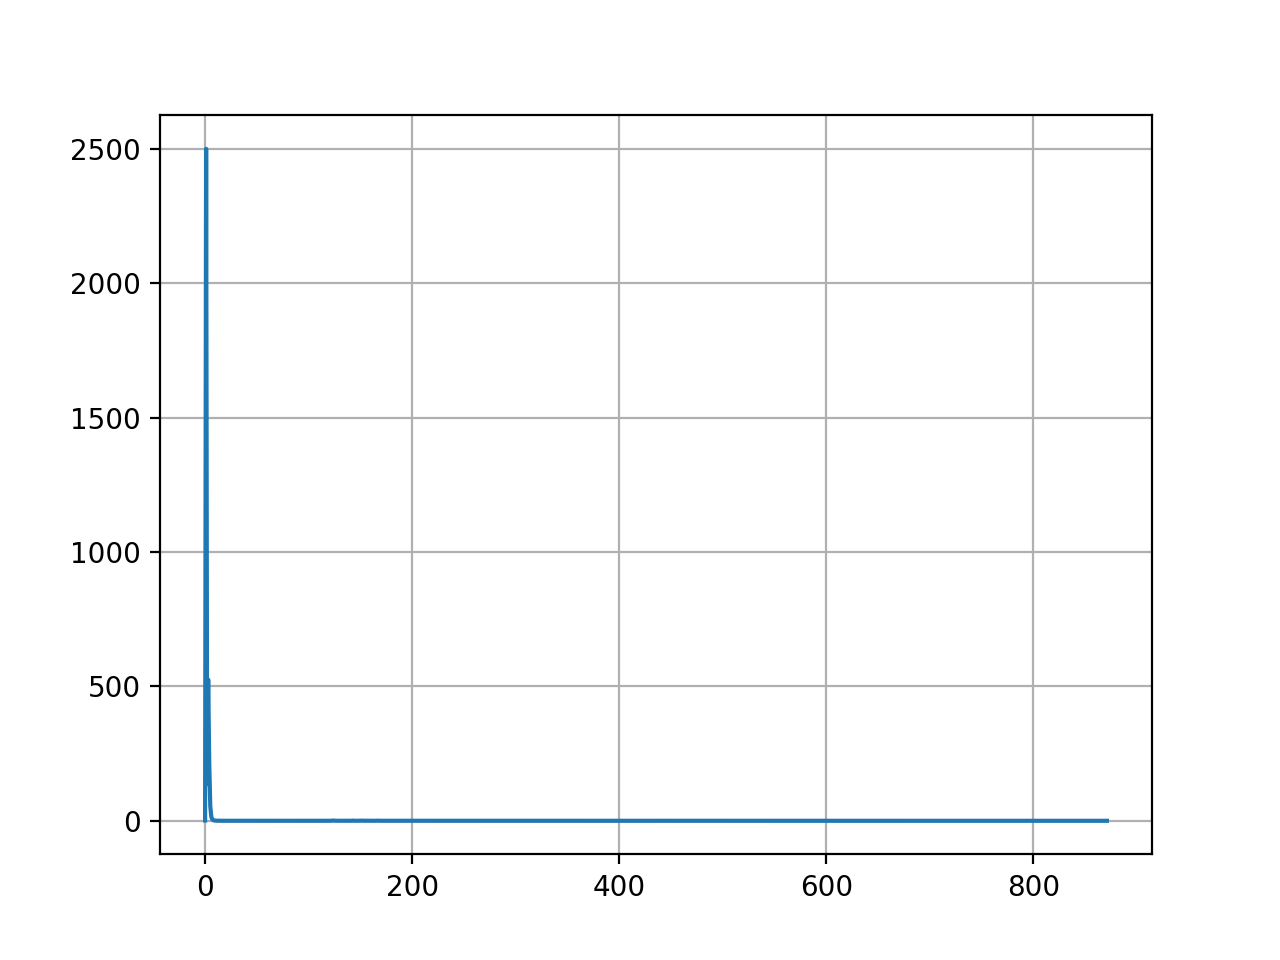
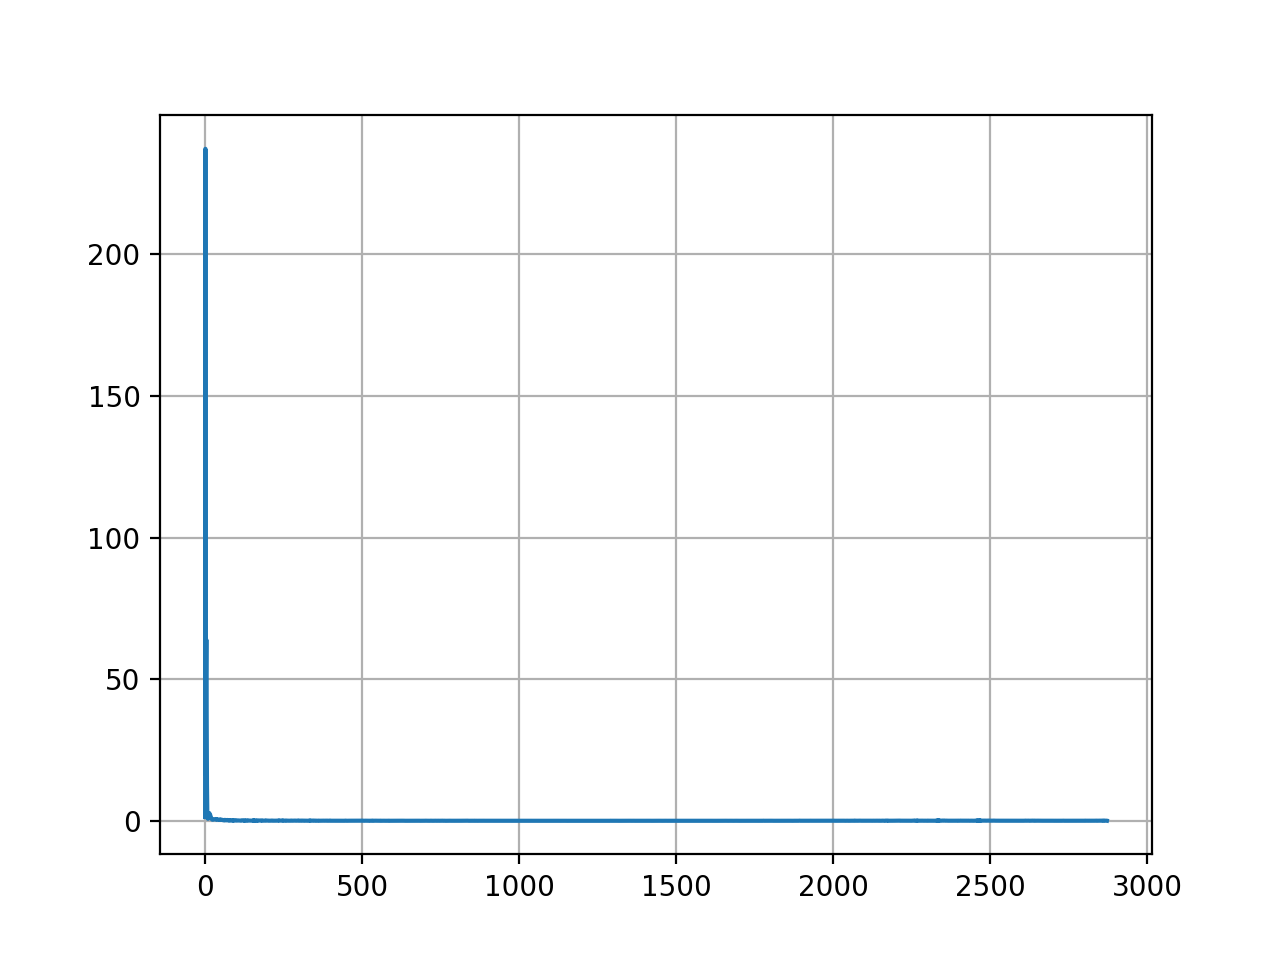
newPIC

diff --git a/newSimulate.py b/newSimulate.py
@@ -54,7 +54,7 @@ def plotMetric(poolEE,poolBestEE):
     fig.canvas.draw()
     plt.pause(0.001)
 
-def plotEEFamily(poolEE,poolThroughput,poolPsys):
+def plotEEFamily(poolEE,poolThroughput,poolPsys,plotName):
     plt.cla()
     plt.plot(poolEE,label='poolEE')
     plt.plot(poolThroughput,label='poolThroughput',alpha=0.7)
@@ -67,9 +67,9 @@ def plotEEFamily(poolEE,poolThroughput,poolPsys):
     plt.grid()
     plt.legend()
     fig = plt.gcf()
-    fig.savefig('data/'+ 'EE_Family' +'.png', format='png',dpi=200)
+    fig.savefig('data/'+ 'EE_Family_' + plotName +'.png', format='png',dpi=200)
 
-def plotPsysFamily(poolPsys,poolmissCounterAP,poolmissCounterCPU):
+def plotPsysFamily(poolPsys,poolmissCounterAP,poolmissCounterCPU,plotName):
     plt.cla()
     plt.plot(poolPsys,'b-',label='poolPsys')
     plt.plot(poolmissCounterAP,'r-',label='poolmissCounterAP',alpha=0.7)
@@ -77,7 +77,7 @@ def plotPsysFamily(poolPsys,poolmissCounterAP,poolmissCounterCPU):
     plt.grid()
     plt.legend()
     fig = plt.gcf()
-    fig.savefig('data/'+ 'Psys_Family' +'.png', format='png',dpi=200)
+    fig.savefig('data/'+ 'Psys_Family_'+ plotName +'.png', format='png',dpi=200)
 
 def plotlist(listA,listName): # for debugging.
     plt.cla()
@@ -172,13 +172,15 @@ def trainModel(env,actMode,changeReq,changeChannel,loadActor,modelName):
             poolmissCounterAP.append(env.missCounterAP)
             poolmissCounterCPU.append(env.missCounterCPU)
 
+            
             Best_snrCL_popCA_EE, snrCL_policy_UE, popCA_policy_BS = env.getBestEE_snrCL_popCA(cacheMode='pref',isSave=False,isPlot=False,isEPS=False)
             poolSP_EE.append(Best_snrCL_popCA_EE)
-            poolSP_Throughput.append(env.Throughput)
+            poolSP_Throughput.append(sum(env.Throughput))
             poolSP_Psys.append(env.P_sys/1000)
             poolSP_missCounterAP.append(env.missCounterAP)
             poolSP_missCounterCPU.append(env.missCounterCPU)
-
+            
+            
             HR = info["HR"]
             poolHR.append(HR)
 
@@ -215,7 +217,7 @@ def trainModel(env,actMode,changeReq,changeChannel,loadActor,modelName):
 
                 if (poolVarLossCritic[-1] < 10) and (poolVarEE[-1] < 10) and changeReq:
                     env.resetReq()
-                    print(env.Req)
+                    print('**Change Request: ',env.Req)
                     countChangeReq+=1
                     noiseSigma = 1 # reset explore
 
@@ -227,10 +229,12 @@ def trainModel(env,actMode,changeReq,changeChannel,loadActor,modelName):
                 countChangeChannel+=1
 
             if (iteraion % 1000) == 0:#Mectric Snapshot
-                #print(finalVar)
+                plotEEFamily(poolEE,poolThroughput,poolPsys,'RL')
+                plotEEFamily(poolSP_EE,poolSP_Throughput,poolSP_Psys,'SP')
+                plotPsysFamily(poolPsys,poolmissCounterAP,poolmissCounterCPU,'RL')
+                plotPsysFamily(poolSP_Psys,poolSP_missCounterAP,poolSP_missCounterCPU,'SP')
+
                 plotlist(poolLossCritic,'LossCritic')
-                plotEEFamily(poolEE,poolThroughput,poolPsys)
-                plotPsysFamily(poolPsys,poolmissCounterAP,poolmissCounterCPU)
                 plotlist(poolHR,'poolHR')
                 Best_snrCL_popCA_EE, snrCL_policy_UE, popCA_policy_BS = env.getBestEE_snrCL_popCA(cacheMode='pref',isSave=False,isPlot=False,isEPS=False)
                 if poolEE[-1]>Best_snrCL_popCA_EE:
@@ -361,7 +365,7 @@ if __name__ == '__main__':
     # new ENV
     #env = BS(nBS=100,nUE=10,nMaxLink=2,nFile=5,nMaxCache=2,loadENV = True)
     env = BS(nBS=40,nUE=10,nMaxLink=2,nFile=5,nMaxCache=2,loadENV = True)
-    #env = BS(nBS=40,nUE=10,nMaxLink=2,nFile=5,nMaxCache=2,loadENV = True)
+    #env = BS(nBS=10,nUE=4,nMaxLink=2,nFile=5,nMaxCache=2,loadENV = True)
     TopologyName = str(env.B)+'AP_'+str(env.U)+'UE_' + str(env.F) + 'File_'+ str(env.N) +'Cache_'
     filenameSDDPG = 'data/1ACT_' + "DDPG_ALL_" + TopologyName + str(today) + '.pt'
     
